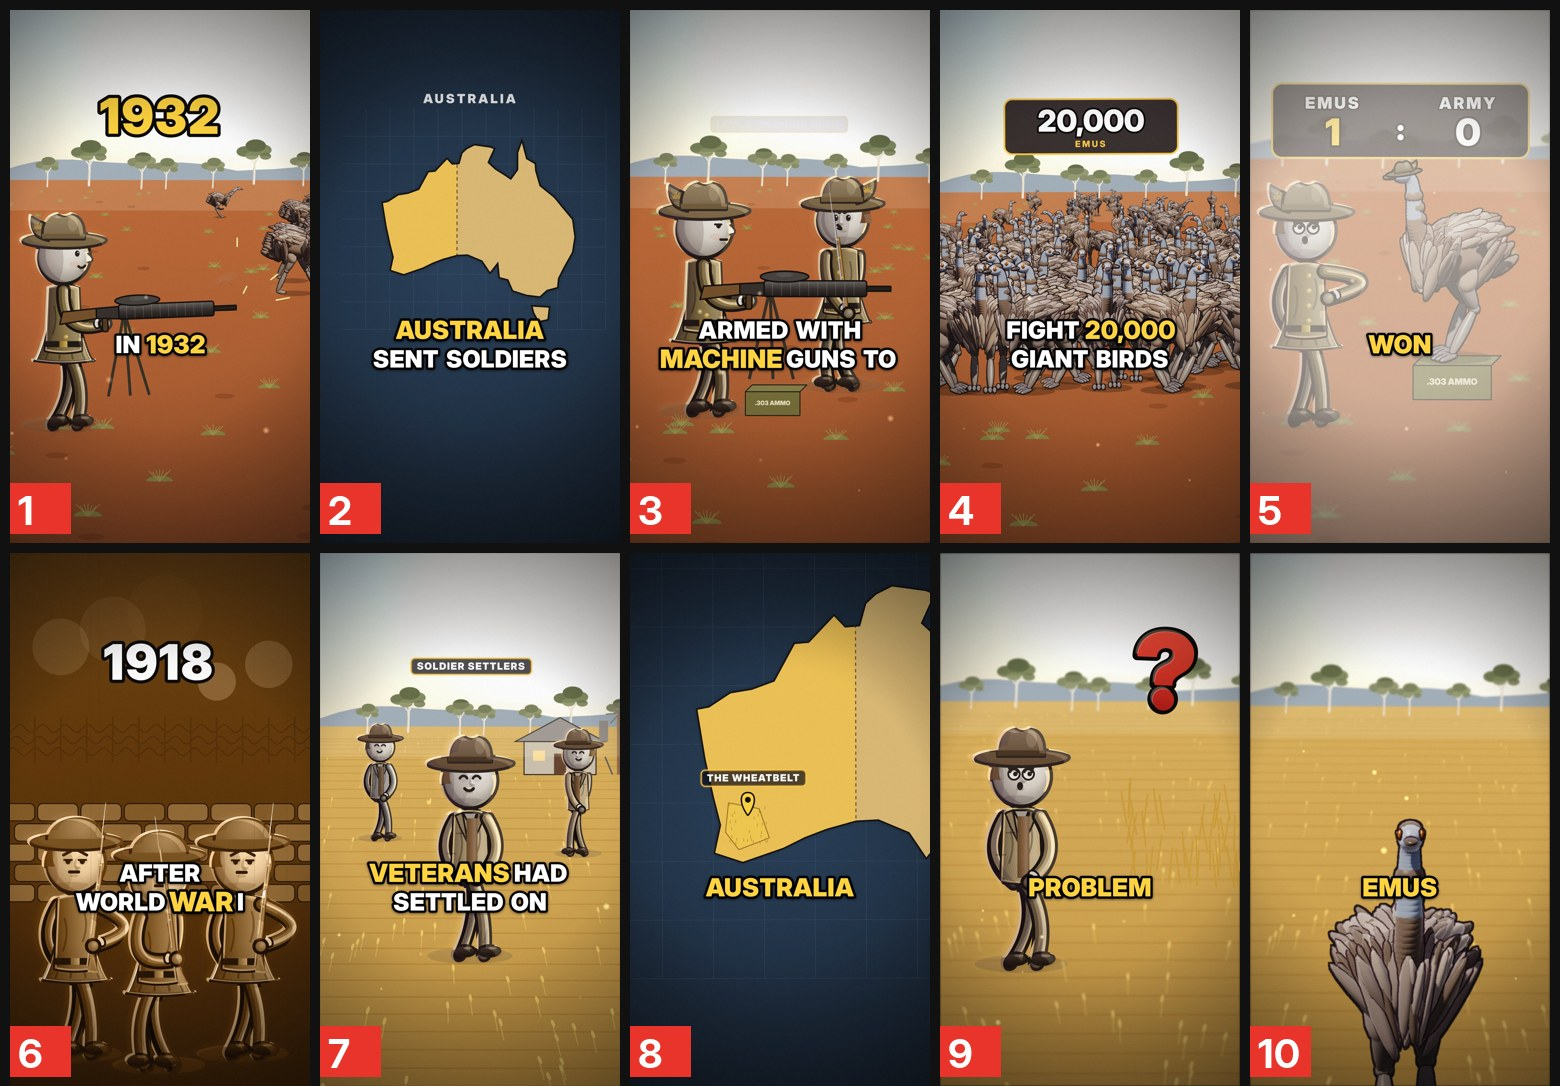
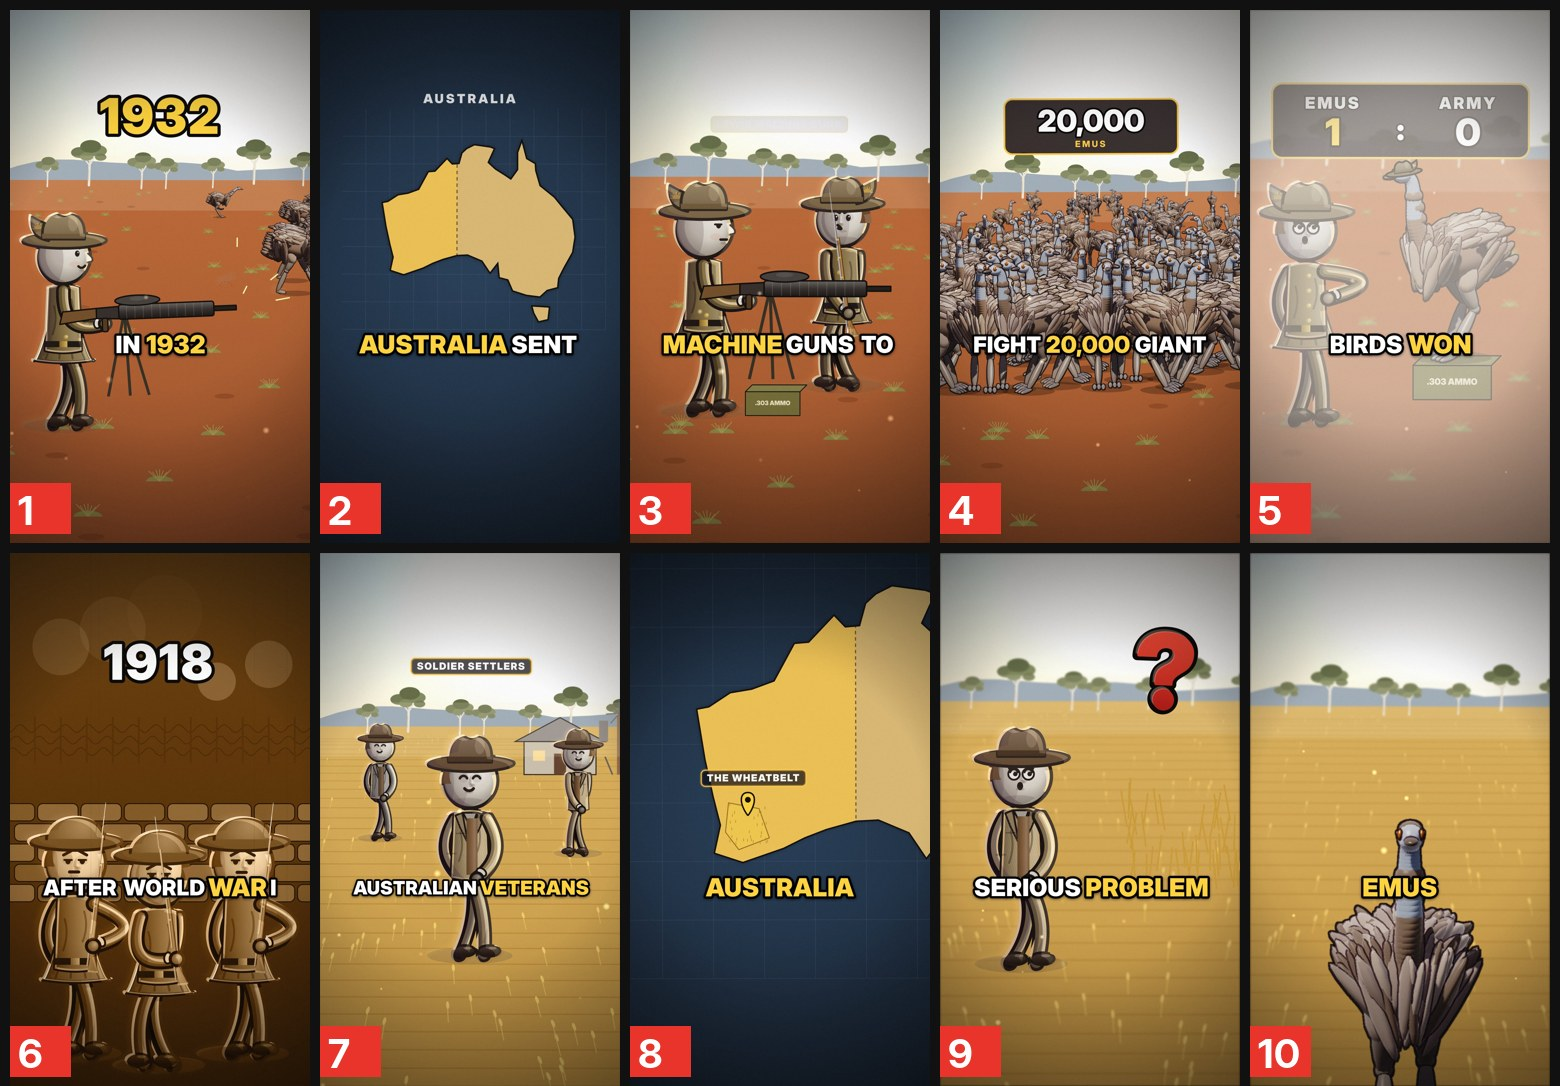
Captions: single line, 1-5 words
Claude-Session: https://claude.ai/code/session_01WmZXnGWPQwk3MGbLdxyYXF

diff --git a/storybit/projects/emu/cap2.js b/storybit/projects/emu/cap2.js
@@ -1,15 +1,15 @@
 'use strict';
-// ===== Captions v2 (house style): lower-middle, chunks of 1–5 words on up to two stacked lines, heavy font, active word YELLOW =====
+// ===== Captions v2 (house style): lower-middle, chunks of 1–5 words on ONE line, heavy font, active word YELLOW =====
 const CAP_Y=1210,CAP_W=840,CAP_YEL='#ffd23f',CAP_LH=104;
 const CAP2=[];(function(){for(const l of L){let g=[],n=0;const fl=()=>{if(g.length)CAP2.push(g);g=[];n=0;};
-  for(const w of l.w){const s=w.x.toUpperCase();if(g.length&&(n+s.length>26||g.length>=5))fl();g.push(w);n+=s.length+1;if(/[.!?:…]$/.test(w.x)&&n>8)fl();}fl();}
+  for(const w of l.w){const s=w.x.toUpperCase();if(g.length&&(n+s.length>20||g.length>=5))fl();g.push(w);n+=s.length+1;if(/[.!?:…]$/.test(w.x)&&n>8)fl();}fl();}
   for(let i=0;i<CAP2.length;i++){const g=CAP2[i];g.t0=g[0].t;const nx=i+1<CAP2.length?CAP2[i+1][0].t-0.025:99;g.t1=Math.min(nx,g[g.length-1].e+0.4);}})();
 function timer(){}
 function captions(c,t){for(const g of CAP2){if(t<g.t0-0.02||t>=g.t1)continue;
   c.save();c.font='900 86px "Inter Display"';c.letterSpacing='1px';const sp=26;
   const parts=g.map(w=>w.x.toUpperCase().replace(/[.,;:]+$/,'').replace(/…/g,''));const ws=parts.map(p=>c.measureText(p).width);
   const rowW=a=>a.reduce((s,i)=>s+ws[i],0)+sp*(a.length-1);const idx=parts.map((_,i)=>i);
-  let rows=[idx];if(rowW(idx)>CAP_W*0.92||parts.length>3){let best=1,bd=1e9;for(let k=1;k<parts.length;k++){const d=Math.abs(rowW(idx.slice(0,k))-rowW(idx.slice(k)));if(d<bd){bd=d;best=k;}}rows=[idx.slice(0,best),idx.slice(best)];}
+  let rows=[idx];
   const fit=Math.min(1,...rows.map(r=>CAP_W/rowW(r))),gk=clamp((t-g.t0+0.02)/0.12),pk=lerp(0.88,1,eo(gk));
   c.translate(W/2,CAP_Y);c.scale(fit*pk,fit*pk);let act=-1;for(let i=0;i<g.length;i++)if(t>=g[i].t-0.02)act=i;
   rows.forEach((r,ri)=>{const y=(ri-(rows.length-1)/2)*CAP_LH;let x=-rowW(r)/2;for(const i of r){const w=g[i];const on=i===act||KEY.has(parts[i].replace(/[^A-Z0-9]/g,''));const k=clamp((t-w.t+0.02)/0.1);const sc=i===act?lerp(1.16,1.05,eo(k)):1;

diff --git a/storybit/CLAUDE.md b/storybit/CLAUDE.md
@@ -42,7 +42,7 @@ First time in a new environment: follow `SETUP.md`, then render one test still i
 Word-by-word, synced to the MP3 (aligner: runs.py → galign.py → align3.py → ps_align.py; fix `phr.json` by hand when lines merge).
 **House style (from the emu video on):** `cap2.js` in `projects/emu`.
 - Position: lower-middle, centre at y≈1210 (about 63% down), never at the top, never at the very bottom (app UI), max width 840 px so it clears the right-side buttons.
-- Chunks of 1–5 words on one or two stacked lines (split into two balanced lines when more than 3 words), heavy all-caps font (~86 px), white with a thick black outline + soft shadow, chunk pops in.
+- Chunks of 1–5 words on a SINGLE line (never two lines; shrink to fit 840 px), heavy all-caps font (~86 px), white with a thick black outline + soft shadow, chunk pops in.
 - The word being spoken is **yellow** (#ffd23f) with a small pop; a few key words also yellow. **Never red** in captions.
 - Keep faces and key action out of the caption band (y≈1120–1300).
 
